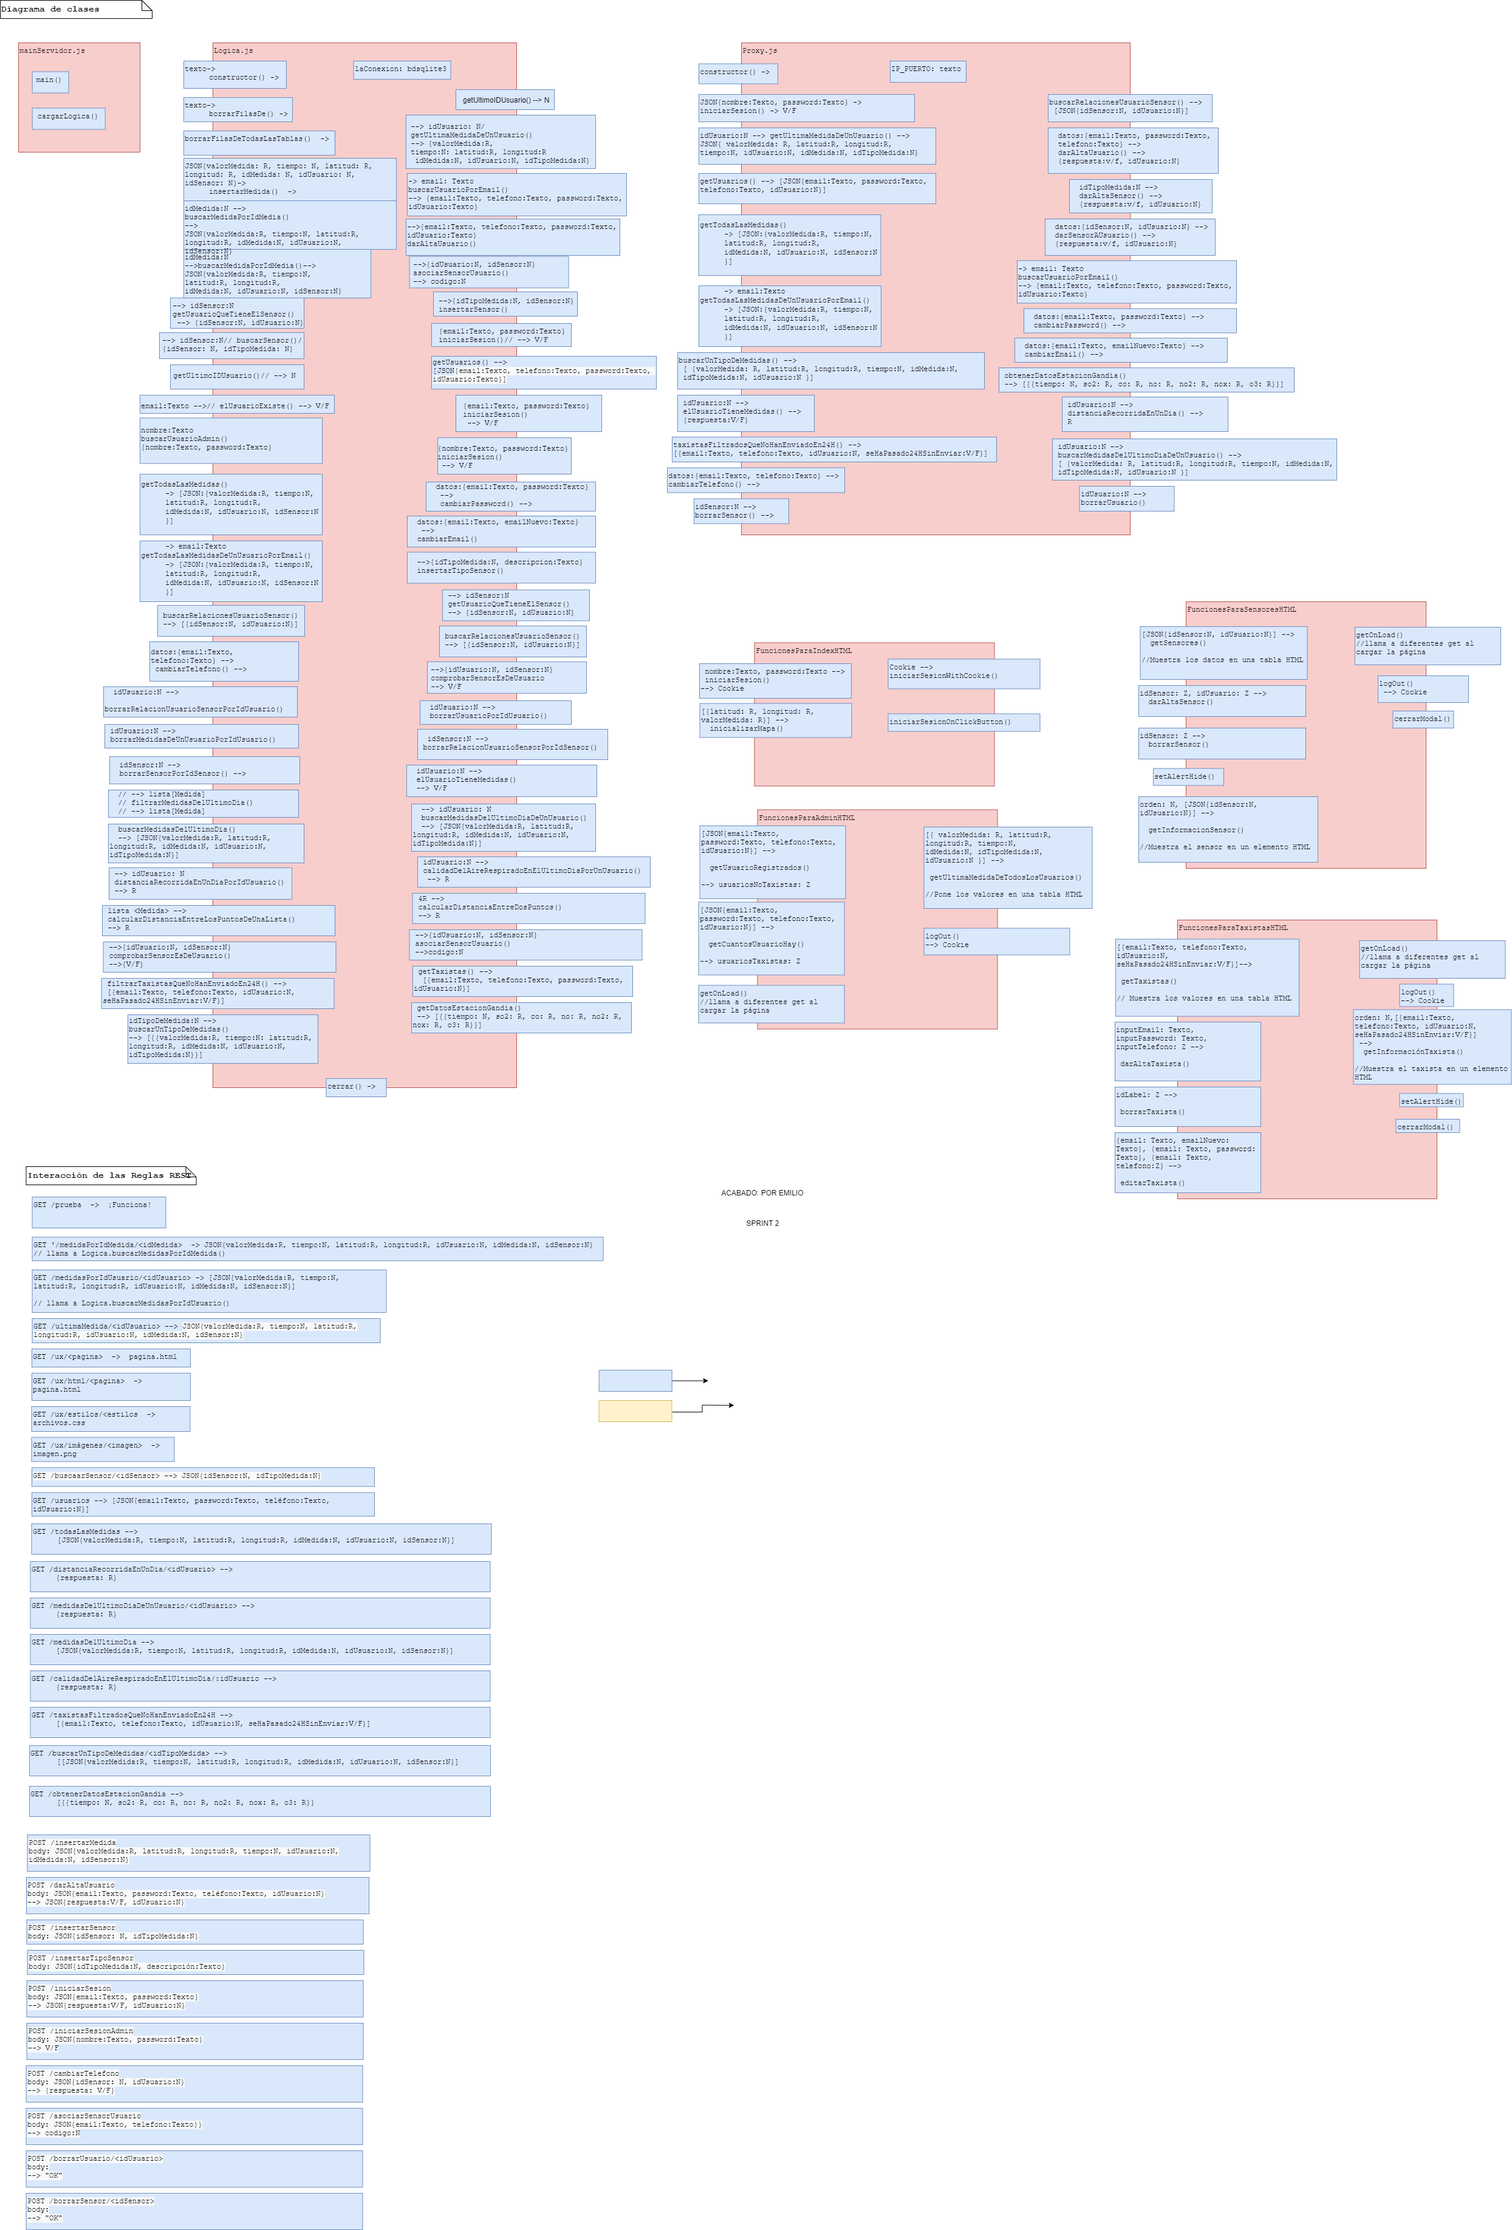
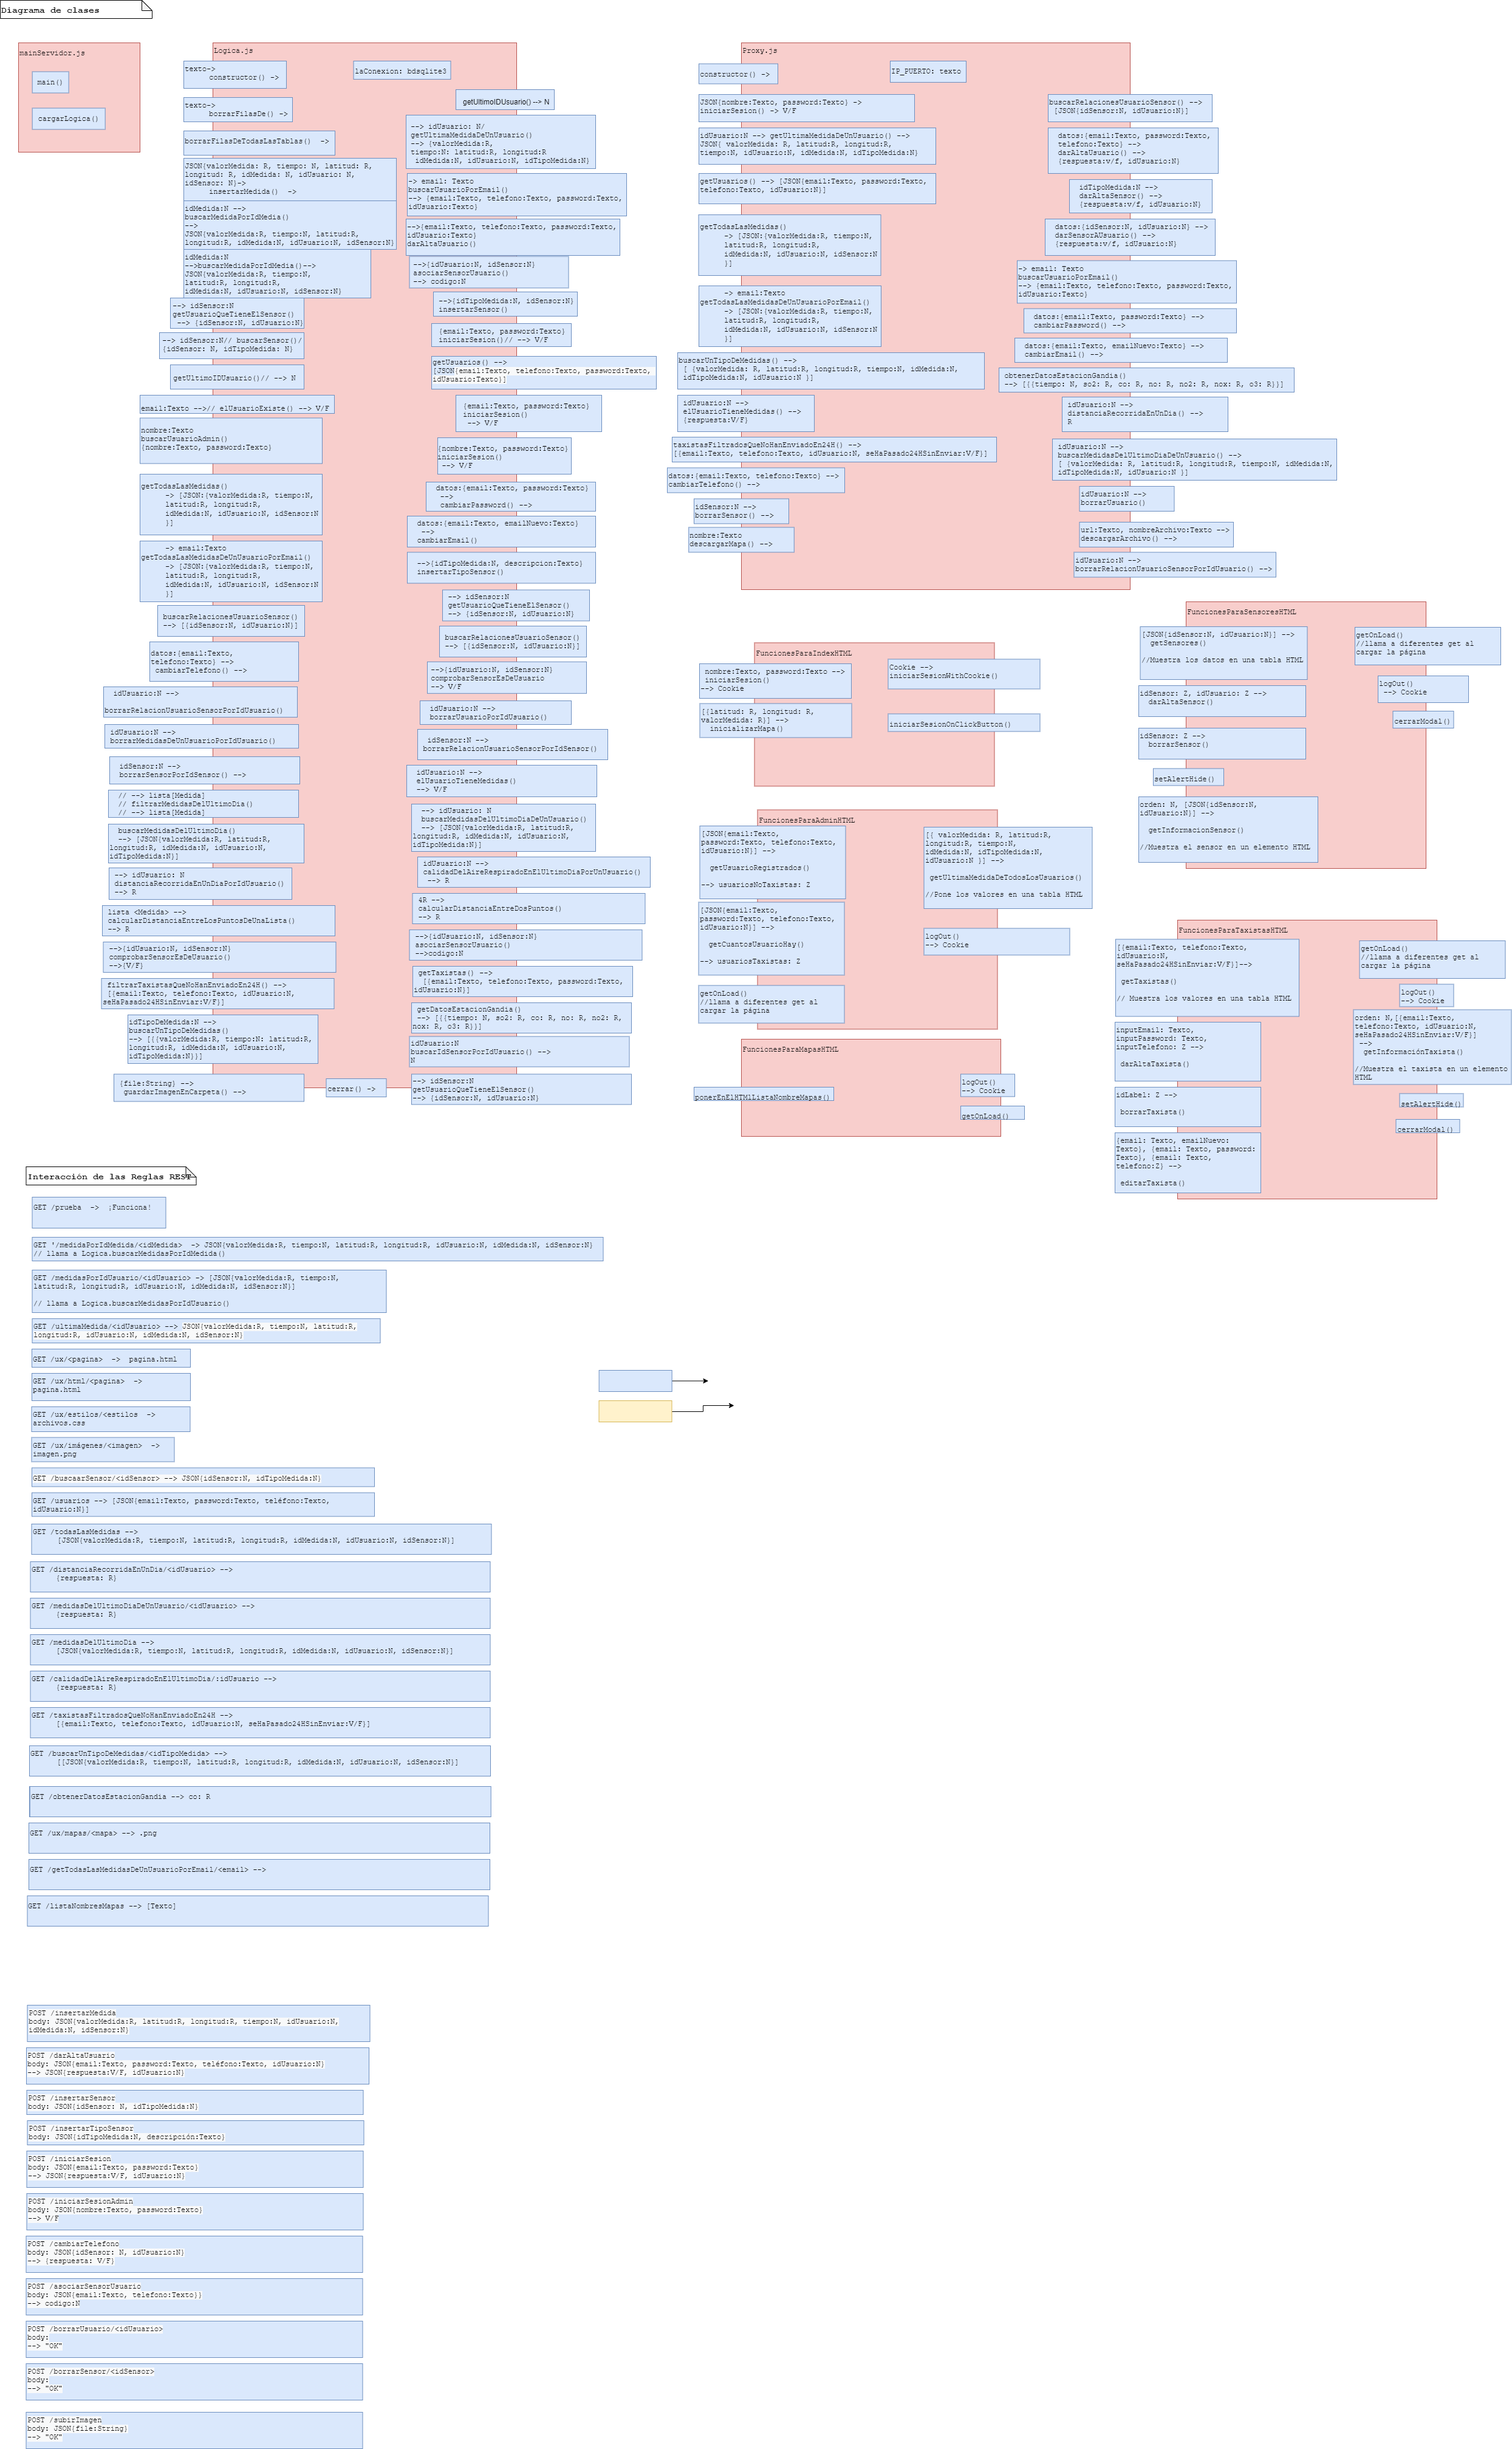
diseños

Changed region(s): [[0.0, 0.0, 1.0, 0.9937], [0.0, 0.0, 0.0928, 0.0932]]

diff --git a/Servidor/logica/logica.js b/Servidor/logica/logica.js
@@ -884,7 +884,7 @@ module.exports = class Logica {
 
   //-----------------------------------------------------------------------
   // filtrarTaxistasQueNoHanEnviadoEn24H() -->
-  // [{email:Texto, telefono:Texto, idUsuario:N, seHaPasado24HSinEnviar:V/F}]
+  // [{email:Texto, telefono:Texto, idUsuario:N, seHaPasado24HSinEnviar:V/F}, idSensor:N]
   //-----------------------------------------------------------------------
   async filtrarTaxistasQueNoHanEnviadoEn24H() {
 

diff --git a/Servidor/ux/proxy.js b/Servidor/ux/proxy.js
@@ -681,7 +681,7 @@ class Proxy {
 
   //----------------------------------------------------------------------------
   // nombre:Texto
-  // descargarArchivo() -->
+  // descargarMapa() -->
   //----------------------------------------------------------------------------
   descargarMapa(nombre) {
     elProxy.descargarArchivo(IP_PUERTO + "/ux/mapas/" + nombre, nombre)
